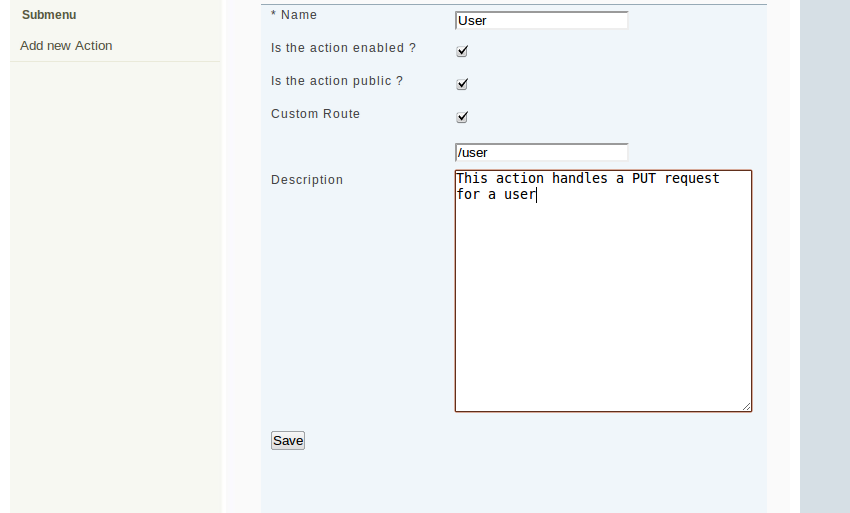
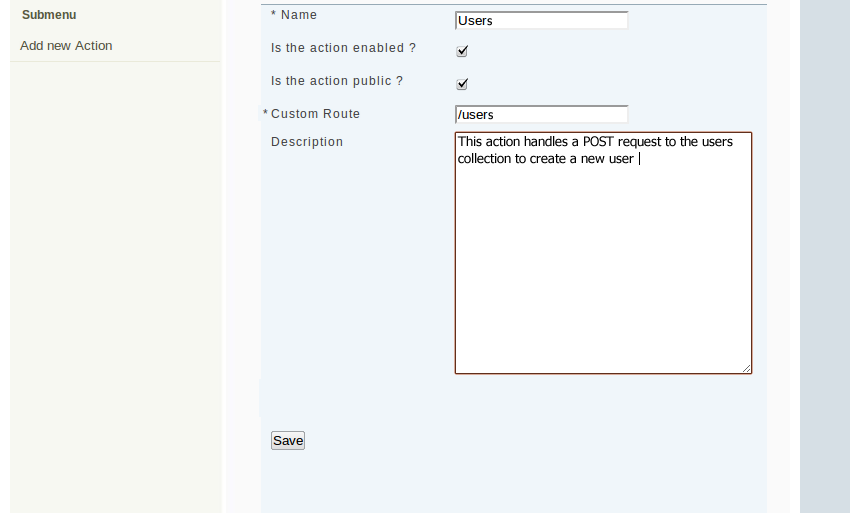
Fixed wordings and images to better reflect difference between PUT and POST.

diff --git a/developing/creating-actions.html b/developing/creating-actions.html
@@ -103,7 +103,7 @@
     </code>
 </p>
 
-<p>Now we need to create two actions. One will be for handling the PUT action, the other for GET, POST, DELETE and HEAD. The reason this is necessary is that FRAPI's routing system cannot handle a route that has an optional argument. Since the PUT action will not require a user id it needs to be created seperately.</p>
+<p>Now we need to create two actions. One will be for handling the POST action, the other for GET, PUT, DELETE and HEAD. The reason this is necessary is that FRAPI's routing system cannot handle a route that has an optional argument. Since the POST action will not require a user id it needs to be created seperately.</p>
 
 <p>First up is our PUT action. Note the custom route does not contain a :user_id on the end. The : is how we define variables in our custom routes.</p>
 
@@ -111,7 +111,7 @@
 
 <p>Once you have the above data entered, click "Save" to save your action.</p>
 
-<p>Next up is our action to handle GET, POST, DELETE and HEAD. Since all of these methods require a user id to function properly we add :user_id to the end of our custom route</p>
+<p>Next up is our action to handle GET, PUT, DELETE and HEAD. Since all of these methods require a user id to function properly we add :user_id to the end of our custom route</p>
 
 <p><img src="/images/admin_add_action_example2.png" alt="Add User action" /></p>
 
